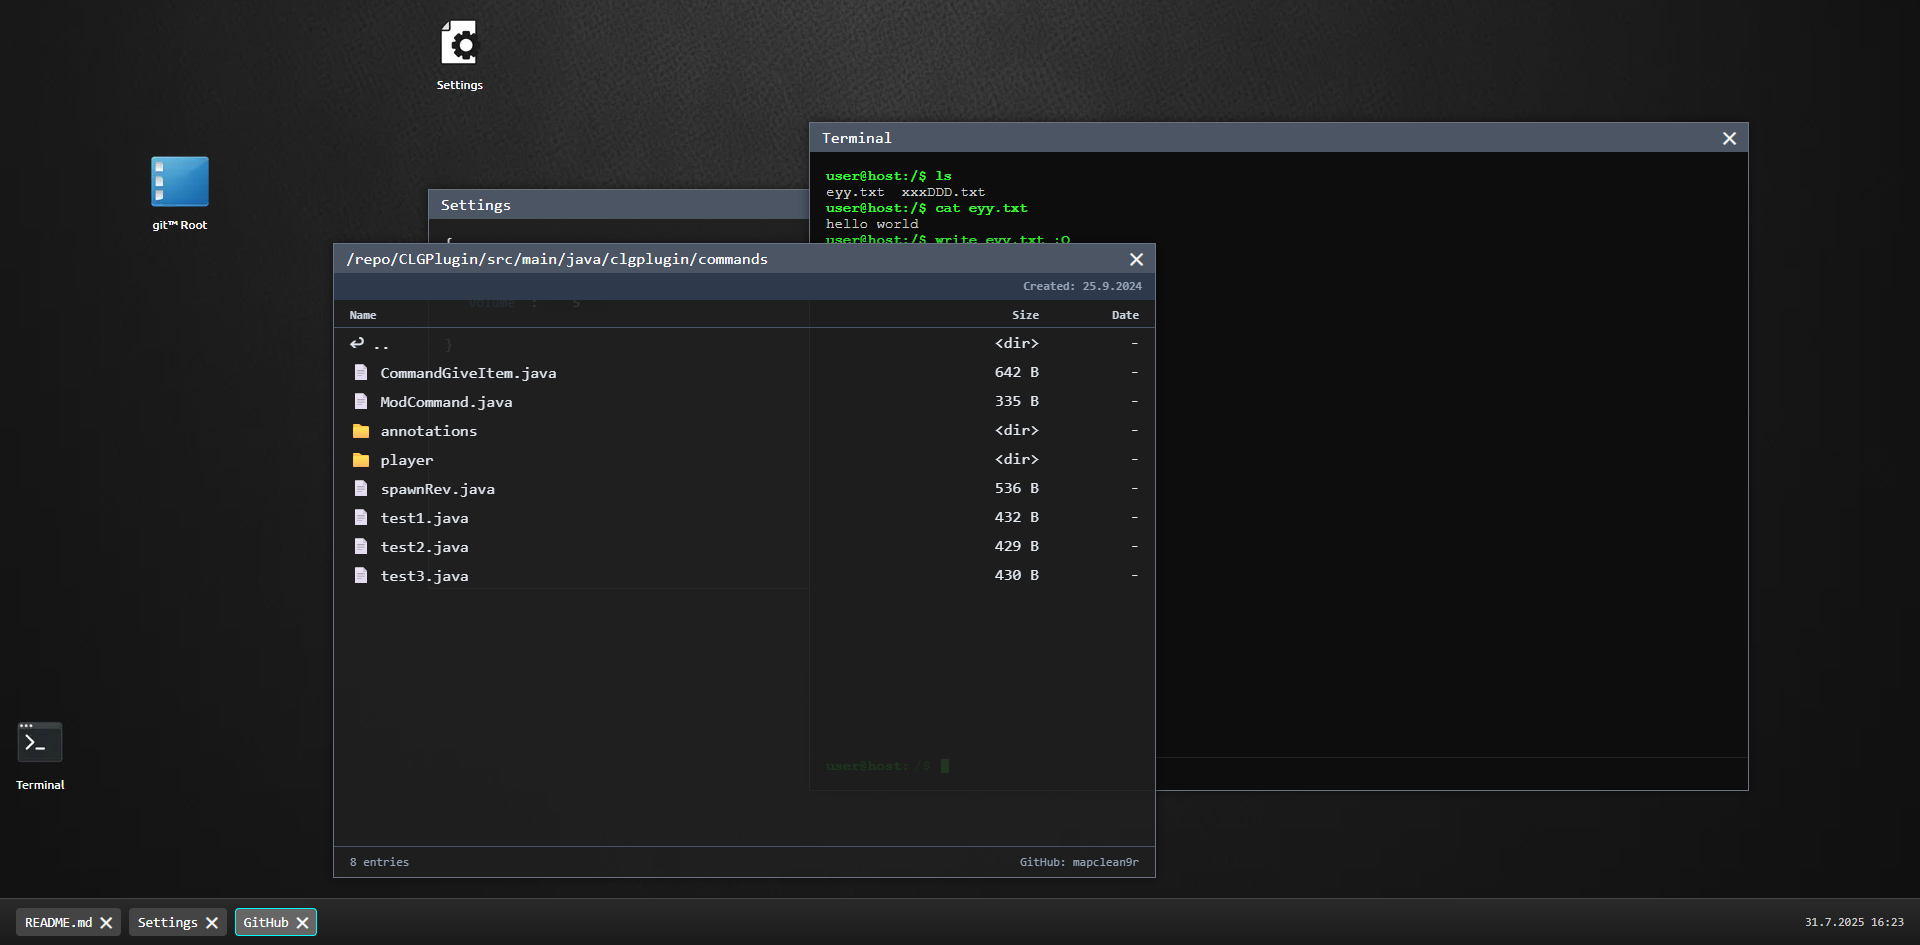
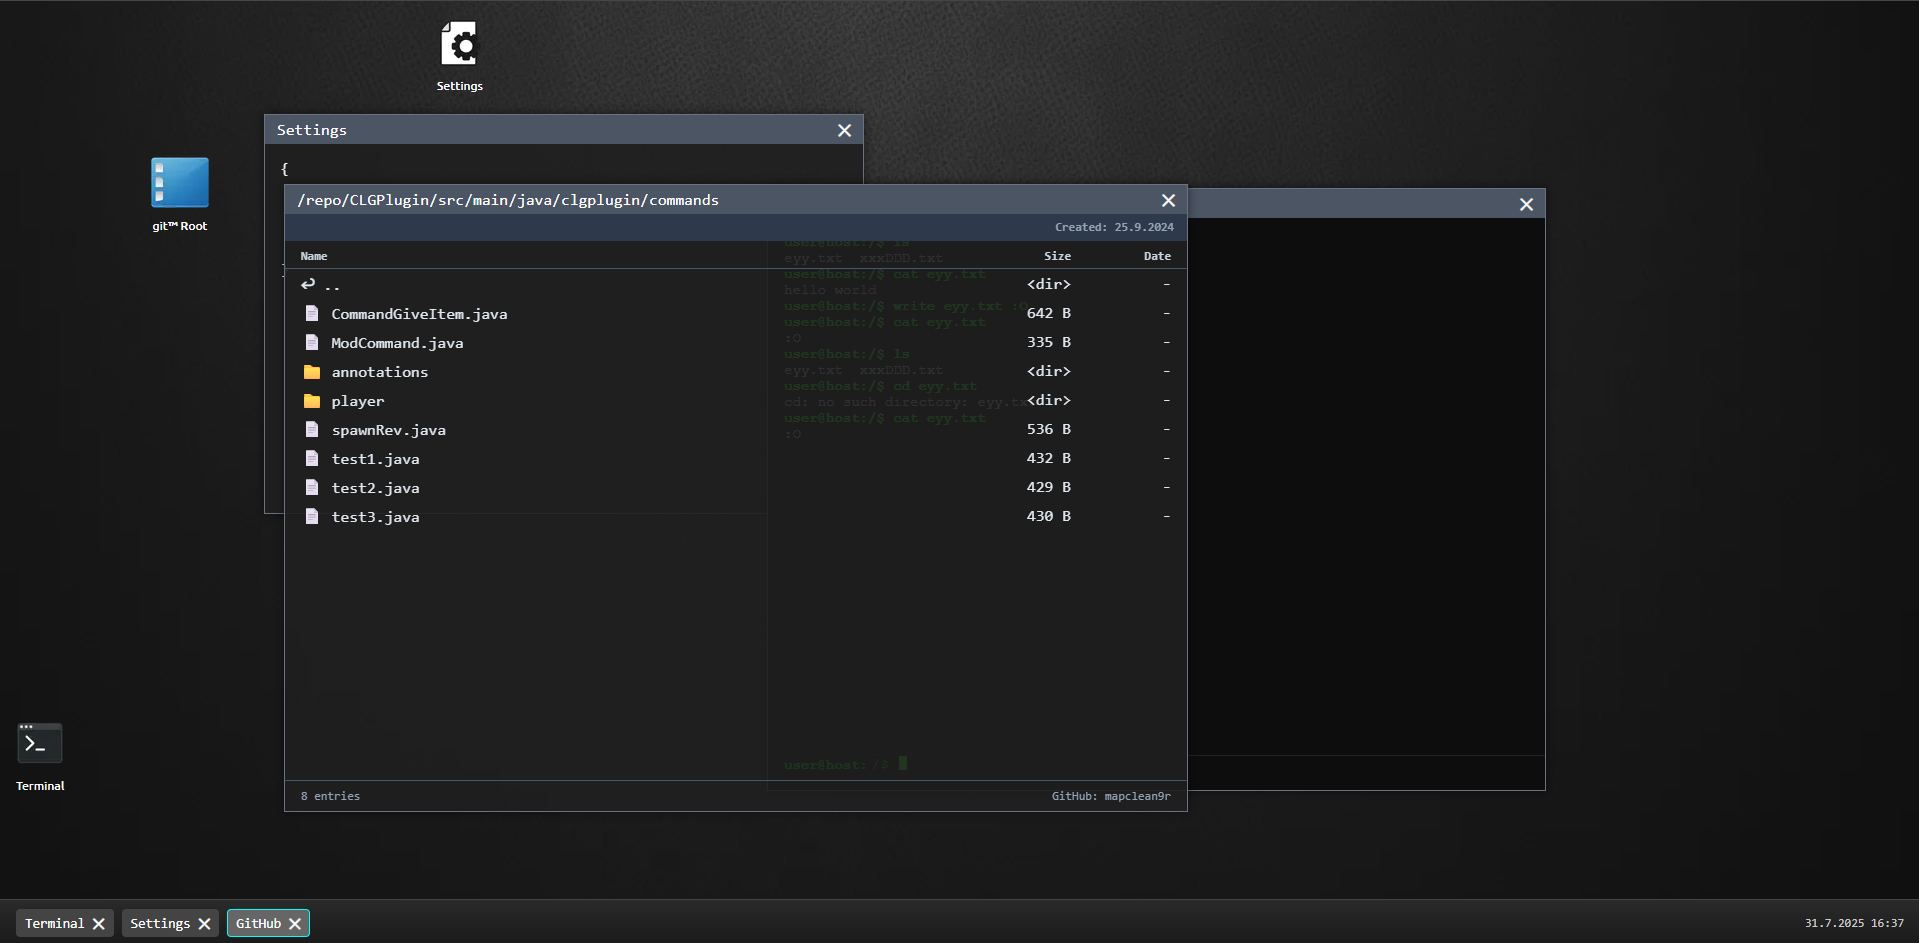
fixed the arrow-keys for terminal, user input navigation && also fixed display bug for terminal in navbar

diff --git a/src/components/TerminalWindow.tsx b/src/components/TerminalWindow.tsx
@@ -23,11 +23,12 @@ const HISTORY_KEY = "terminal_history";
 export default function TerminalWindow({ onClose, onFocus, zIndex }: Props) {
   const fs = useFileSystem();
   const inputRef = useRef<HTMLInputElement>(null);
-  const terminalRef = useRef<HTMLDivElement>(null);
+  const outputRef = useRef<HTMLDivElement>(null);
   const scrollAnchorRef = useRef<HTMLDivElement>(null);
 
-
   const [command, setCommand] = useState("");
+  const [cursorIndex, setCursorIndex] = useState(0);
+
   const [output, setOutput] = useState<OutputLine[]>(() => {
     const saved = localStorage.getItem(OUTPUT_KEY);
     return saved ? JSON.parse(saved) : [];
@@ -61,17 +62,17 @@ export default function TerminalWindow({ onClose, onFocus, zIndex }: Props) {
       case "help":
         response = [
           "Available commands:",
-          "  ls                  - list files and folders",
-          "  cd <dir>            - change directory",
-          "  mkdir <name>        - create new folder",
-          "  touch <name>        - create new file",
-          "  rm <file>           - remove a file",
-          "  rmdir <folder>      - remove empty folder",
-          "  cat <file>          - show file content",
+          "  ls               - list files and folders",
+          "  cd <dir>         - change directory",
+          "  mkdir <name>     - create new folder",
+          "  touch <name>     - create new file",
+          "  rm <file>        - remove a file",
+          "  rmdir <folder>   - remove empty folder",
+          "  cat <file>       - show file content",
           "  write <file> <text> - write content to file",
-          "  pwd                 - show current path",
-          "  clear               - clear the terminal",
-          "  help                - show this help message"
+          "  pwd              - show current path",
+          "  clear            - clear the terminal",
+          "  help             - show this help message"
         ].join("\n");
         break;
       case "ls":
@@ -125,16 +126,24 @@ export default function TerminalWindow({ onClose, onFocus, zIndex }: Props) {
     e.preventDefault();
     handleCommand(command);
     setCommand("");
+    setCursorIndex(0);
   };
 
-  const handleKeyDown = (e: React.KeyboardEvent) => {
+  const handleKeyDown = (e: React.KeyboardEvent<HTMLInputElement>) => {
+    if (e.key === "ArrowLeft") {
+      setCursorIndex((i) => Math.max(i - 1, 0));
+    } else if (e.key === "ArrowRight") {
+      setCursorIndex((i) => Math.min(i + 1, command.length));
+    }
+
     if (e.key === "ArrowUp") {
       e.preventDefault();
       if (history.length === 0) return;
-
       setHistoryIndex((prev) => {
         const newIndex = prev === null ? history.length - 1 : Math.max(0, prev - 1);
-        setCommand(history[newIndex]);
+        const cmd = history[newIndex];
+        setCommand(cmd);
+        setCursorIndex(cmd.length);
         return newIndex;
       });
     }
@@ -142,42 +151,44 @@ export default function TerminalWindow({ onClose, onFocus, zIndex }: Props) {
     if (e.key === "ArrowDown") {
       e.preventDefault();
       if (history.length === 0) return;
-
       setHistoryIndex((prev) => {
         if (prev === null) return null;
         const newIndex = prev + 1;
         if (newIndex >= history.length) {
           setCommand("");
+          setCursorIndex(0);
           return null;
         }
-        setCommand(history[newIndex]);
+        const cmd = history[newIndex];
+        setCommand(cmd);
+        setCursorIndex(cmd.length);
         return newIndex;
       });
     }
 
     if (e.key === "Tab") {
       e.preventDefault();
-      const [base, ...rest] = command.split(" ");
-      const isSupported = ["cd", "cat", "write", "rm", "rmdir"].includes(base);
-      if (!isSupported) return;
-
+      const [base, ...rest] = command.trim().split(" ");
       const partial = rest.join(" ");
+      if (!partial) return;
+
       const matches = fs.ls().filter((entry) => entry.startsWith(partial));
       if (matches.length === 1) {
         setCommand(`${base} ${matches[0]}`);
+        setCursorIndex((`${base} ${matches[0]}`).length);
+      } else if (matches.length > 1) {
+        appendOutput(matches.join("  "));
       }
     }
   };
 
   useEffect(() => {
     inputRef.current?.focus();
-  }, [output]);
+  }, []);
 
   useEffect(() => {
     scrollAnchorRef.current?.scrollIntoView({ behavior: "auto" });
   }, [output]);
-
-
 
   useEffect(() => {
     localStorage.setItem(OUTPUT_KEY, JSON.stringify(output));
@@ -188,43 +199,47 @@ export default function TerminalWindow({ onClose, onFocus, zIndex }: Props) {
   }, [history]);
 
   return (
-<BaseWindow
-  title="Terminal"
-  onClose={onClose}
-  onFocus={onFocus}
-  zIndex={zIndex}
->
-  <div className={styles.terminal} onClick={() => inputRef.current?.focus()}>
-    <div className={styles.output} ref={terminalRef}>
-      {output.map((line) => (
-        <div
-          key={line.id}
-          className={line.isCommand ? styles.command : styles.response}
-        >
-          {line.text}
+    <BaseWindow
+      title="Terminal"
+      onClose={onClose}
+      onFocus={onFocus}
+      zIndex={zIndex}
+    >
+      <div className={styles.terminal} onClick={() => inputRef.current?.focus()}>
+        <div className={styles.output} ref={outputRef}>
+          {output.map((line) => (
+            <div
+              key={line.id}
+              className={line.isCommand ? styles.command : styles.response}
+            >
+              {line.text}
+            </div>
+          ))}
+          <div ref={scrollAnchorRef} />
         </div>
-      ))}
-      <div ref={scrollAnchorRef} />
-    </div>
 
-
-    <form onSubmit={handleSubmit} className={styles.line}>
-      <span className={styles.prompt}>user@host:</span>
-      <span className={styles.path}>{fs.pwd()}$</span>
-      <span>{command}</span>
-      <span className={styles.cursor}></span>
-      <input
-        ref={inputRef}
-        value={command}
-        onChange={(e) => setCommand(e.target.value)}
-        onKeyDown={handleKeyDown}
-        className={styles.hiddenInput}
-        autoComplete="off"
-        spellCheck={false}
-      />
-    </form>
-  </div>
-</BaseWindow>
-
+        <form onSubmit={handleSubmit} className={styles.line}>
+          <span className={styles.prompt}>user@host:</span>
+          <span className={styles.path}>{fs.pwd()}$</span>
+          <span>
+            {command.slice(0, cursorIndex)}
+            <span className={styles.cursor}></span>
+            {command.slice(cursorIndex)}
+          </span>
+          <input
+            ref={inputRef}
+            value={command}
+            onChange={(e) => {
+              setCommand(e.target.value);
+              setCursorIndex(e.target.selectionStart || 0);
+            }}
+            onKeyDown={handleKeyDown}
+            className={styles.hiddenInput}
+            autoComplete="off"
+            spellCheck={false}
+          />
+        </form>
+      </div>
+    </BaseWindow>
   );
 }

diff --git a/src/components/Application.tsx b/src/components/Application.tsx
@@ -35,7 +35,7 @@ const {
   const openWindow = (type: "terminal" | "git" | "settings") => {
     const newId = windowIdCounter++;
     const title =
-      type === "terminal" ? "README.md" : 
+      type === "terminal" ? "Terminal" : 
       type === "git" ? "GitHub" : "Settings";
 
     setWindows((prev) => [
